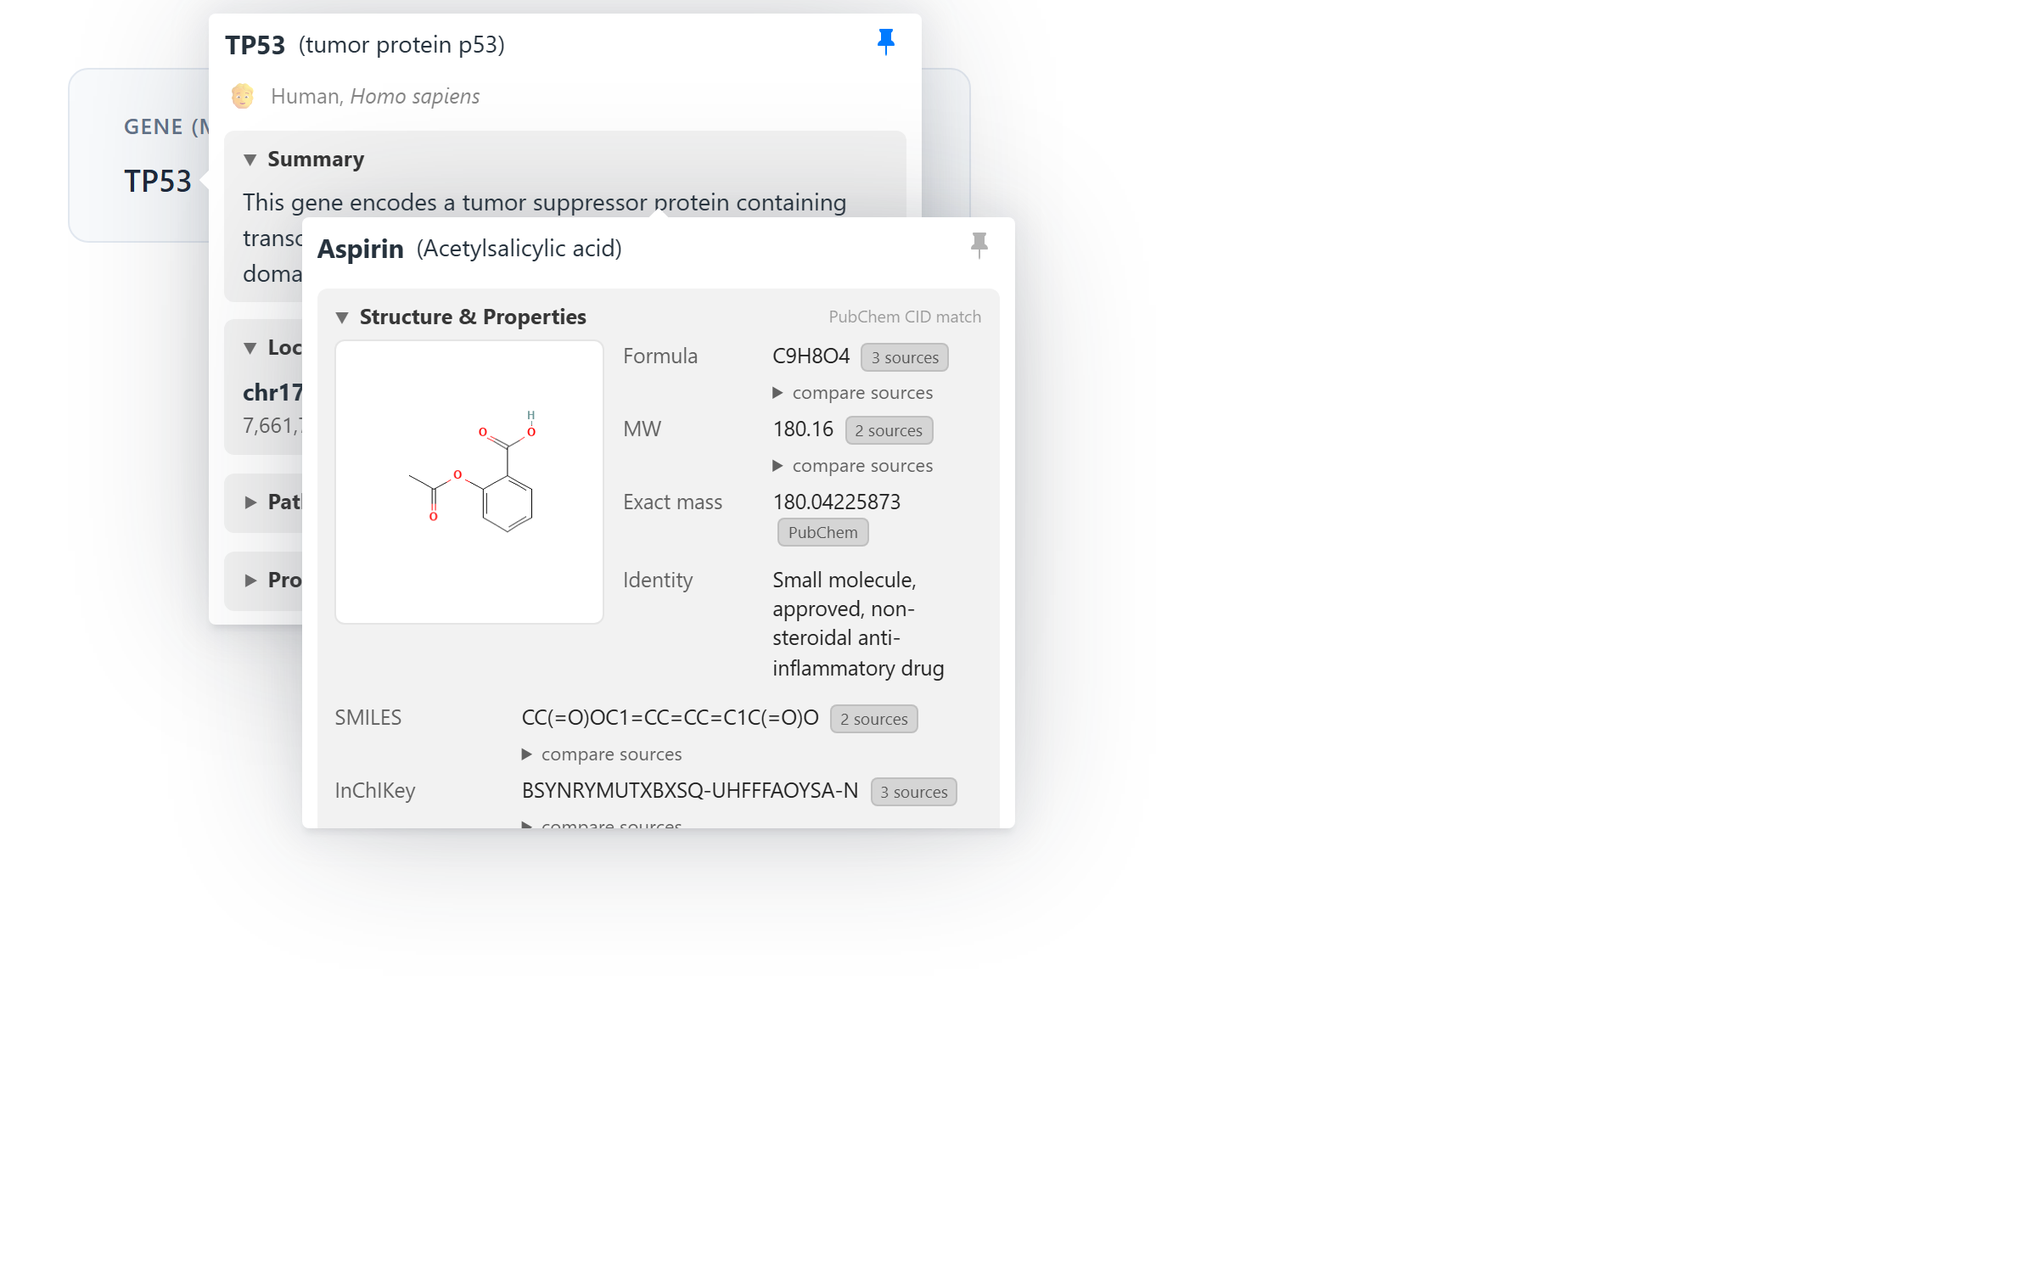
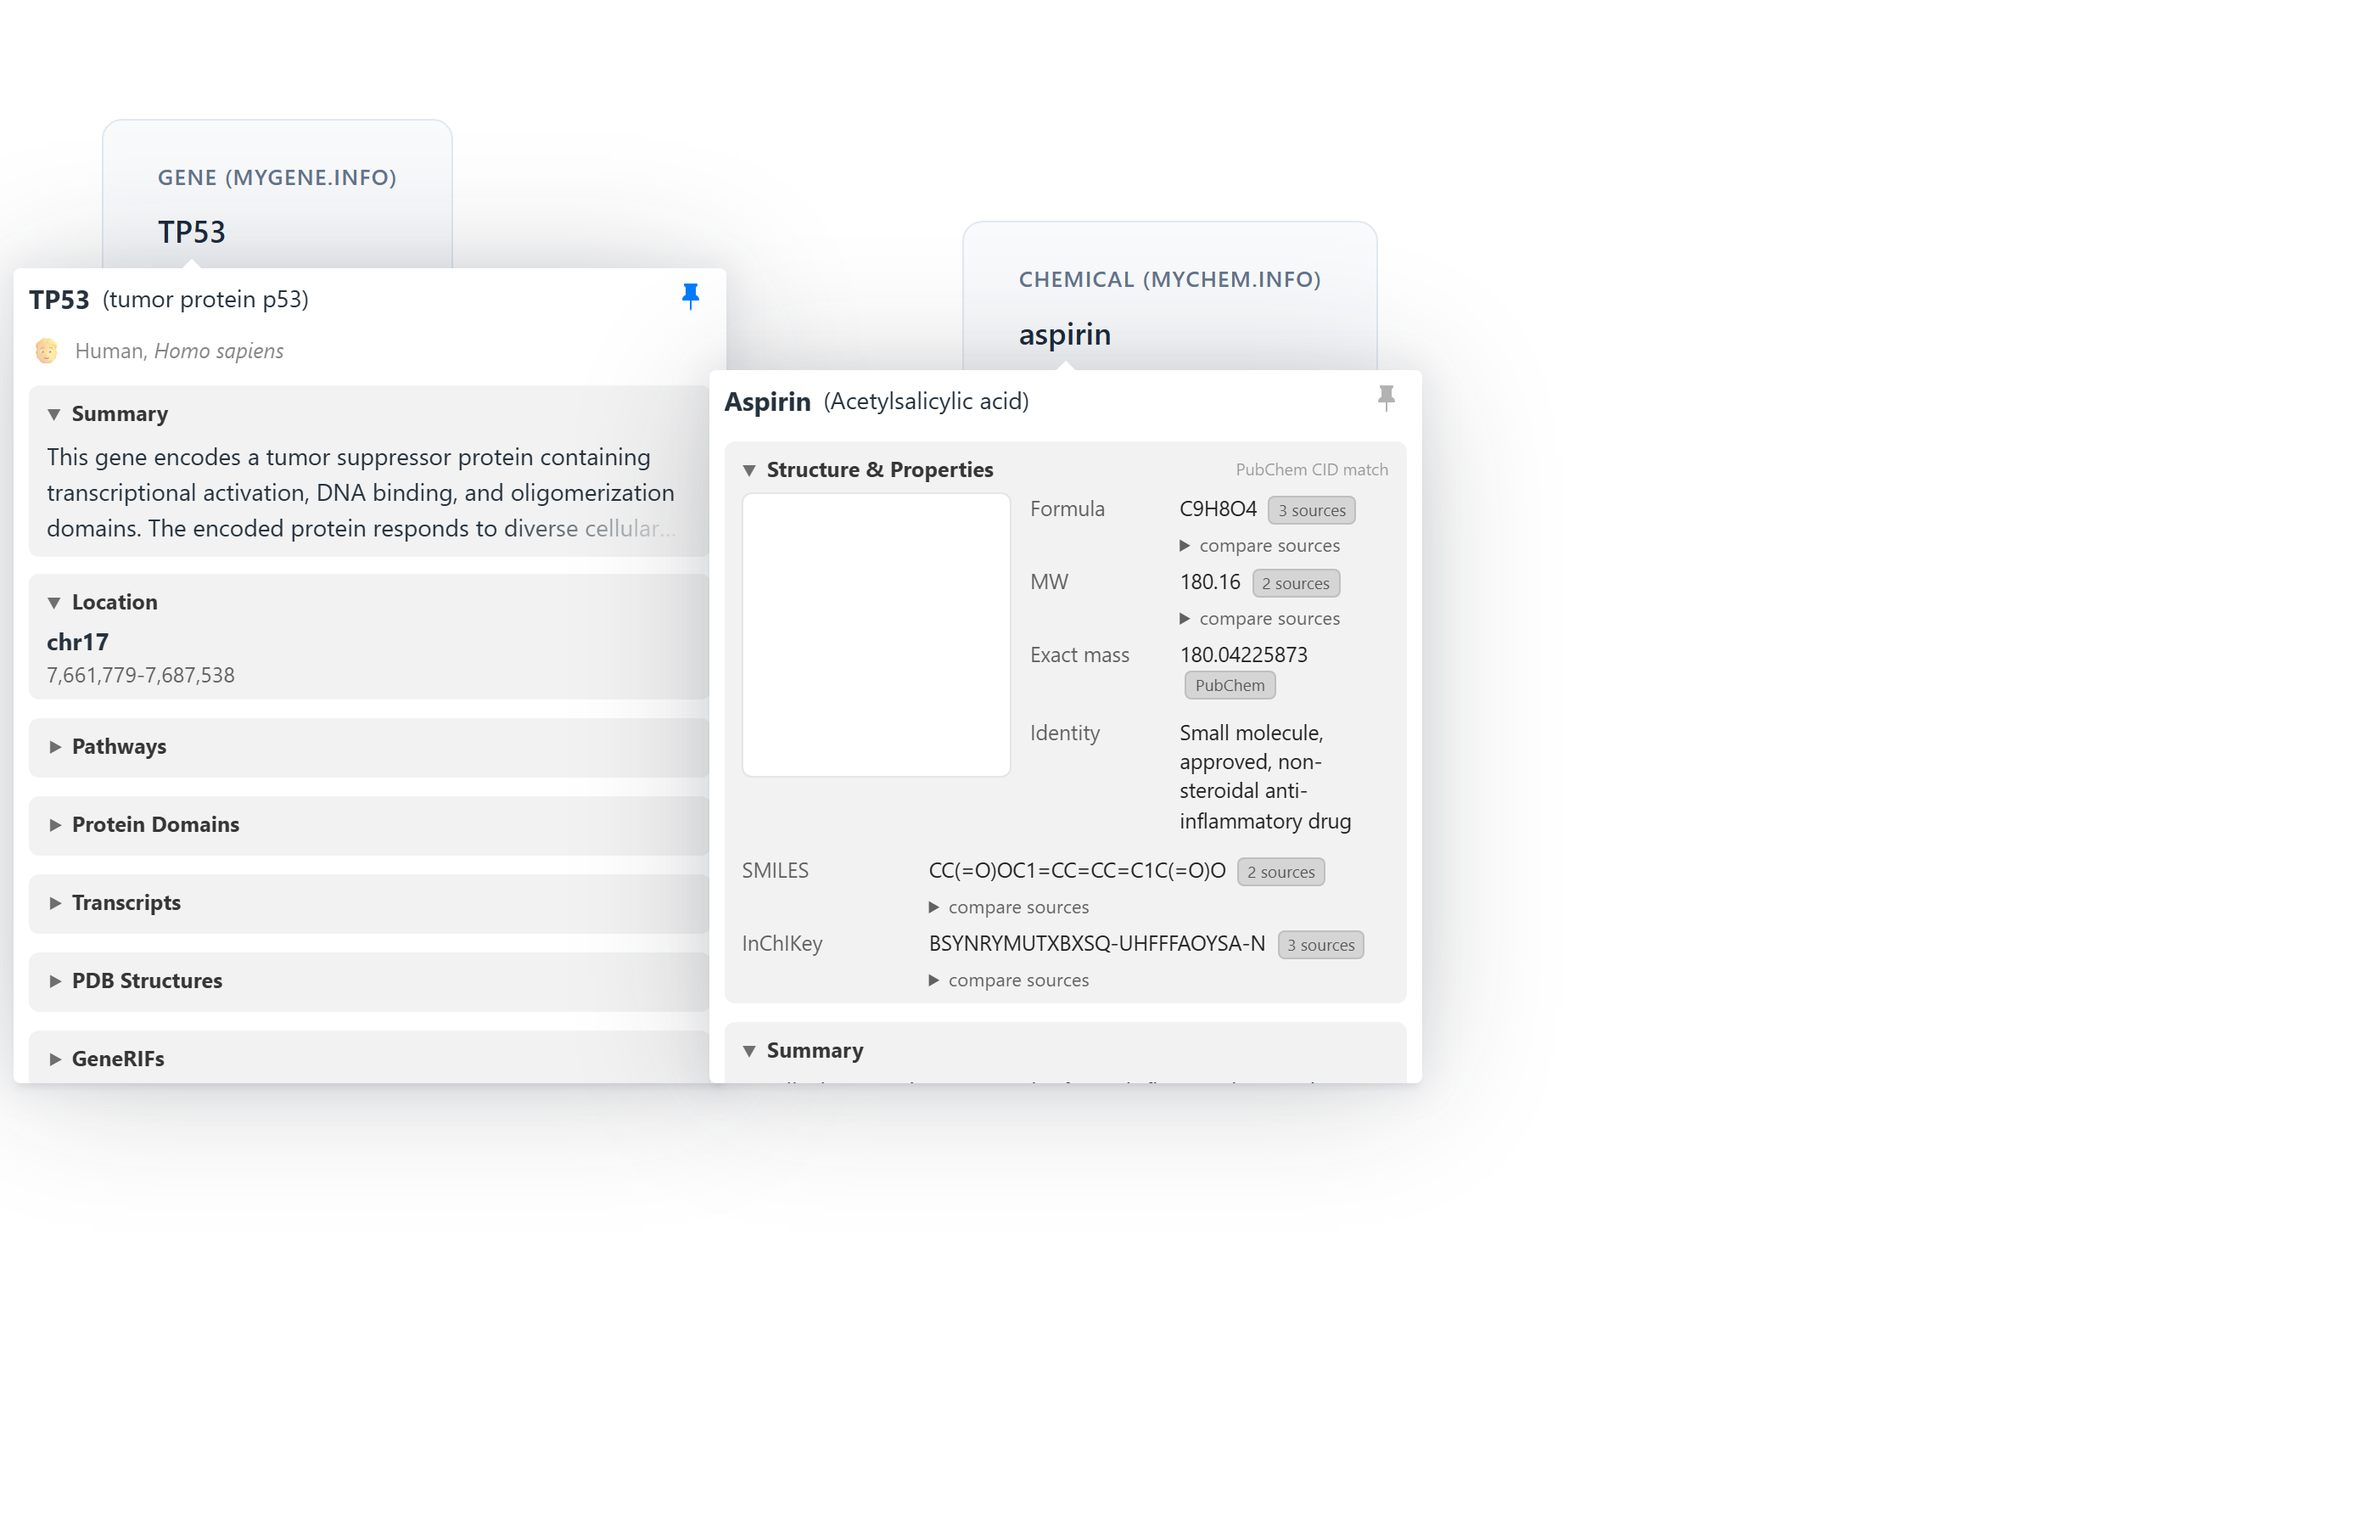
fix: optimize the automated preview PNG

diff --git a/screenshots/screenshot.html b/screenshots/screenshot.html
@@ -9,9 +9,9 @@
         body {
             font-family: -apple-system, BlinkMacSystemFont, 'Segoe UI', Roboto, sans-serif;
             background: #ffffff;
-            padding: 40px;
+            padding: 50px 60px;
             display: flex;
-            gap: 80px;
+            gap: 300px;
             align-items: flex-start;
         }
         .trigger-card {
@@ -37,14 +37,20 @@
         .trigger-word:hover {
             color: #2563eb;
         }
+        .gene-card {
+            margin-top: 20px;
+        }
+        .chemical-card {
+            margin-top: 80px;
+        }
     </style>
 </head>
 <body>
-    <div class="trigger-card">
+    <div class="trigger-card gene-card">
         <h2>Gene (MyGene.info)</h2>
         <span class="gene-tooltip trigger-word" data-species="human">TP53</span>
     </div>
-    <div class="trigger-card">
+    <div class="trigger-card chemical-card">
         <h2>Chemical (MyChem.info)</h2>
         <span class="chemical-tooltip trigger-word" data-query="2244" data-scope="pubchem">aspirin</span>
     </div>
@@ -57,14 +63,17 @@
         document.addEventListener('DOMContentLoaded', () => {
             GeneTooltip.init({
                 truncateSummary: 3,
-                display: { ideogram: true },
+                display: {
+                    ideogram: true,
+                    geneTrack: 'expanded',
+                },
                 ideogram: { enabled: true, height: 100 },
-                tooltipHeight: 360,
+                tooltipHeight: 480,
                 tooltipWidth: 420,
                 theme: 'light'
             });
             ChemicalTooltip.init({
-                tooltipHeight: 360,
+                tooltipHeight: 420,
                 tooltipWidth: 420,
                 theme: 'light'
             });
